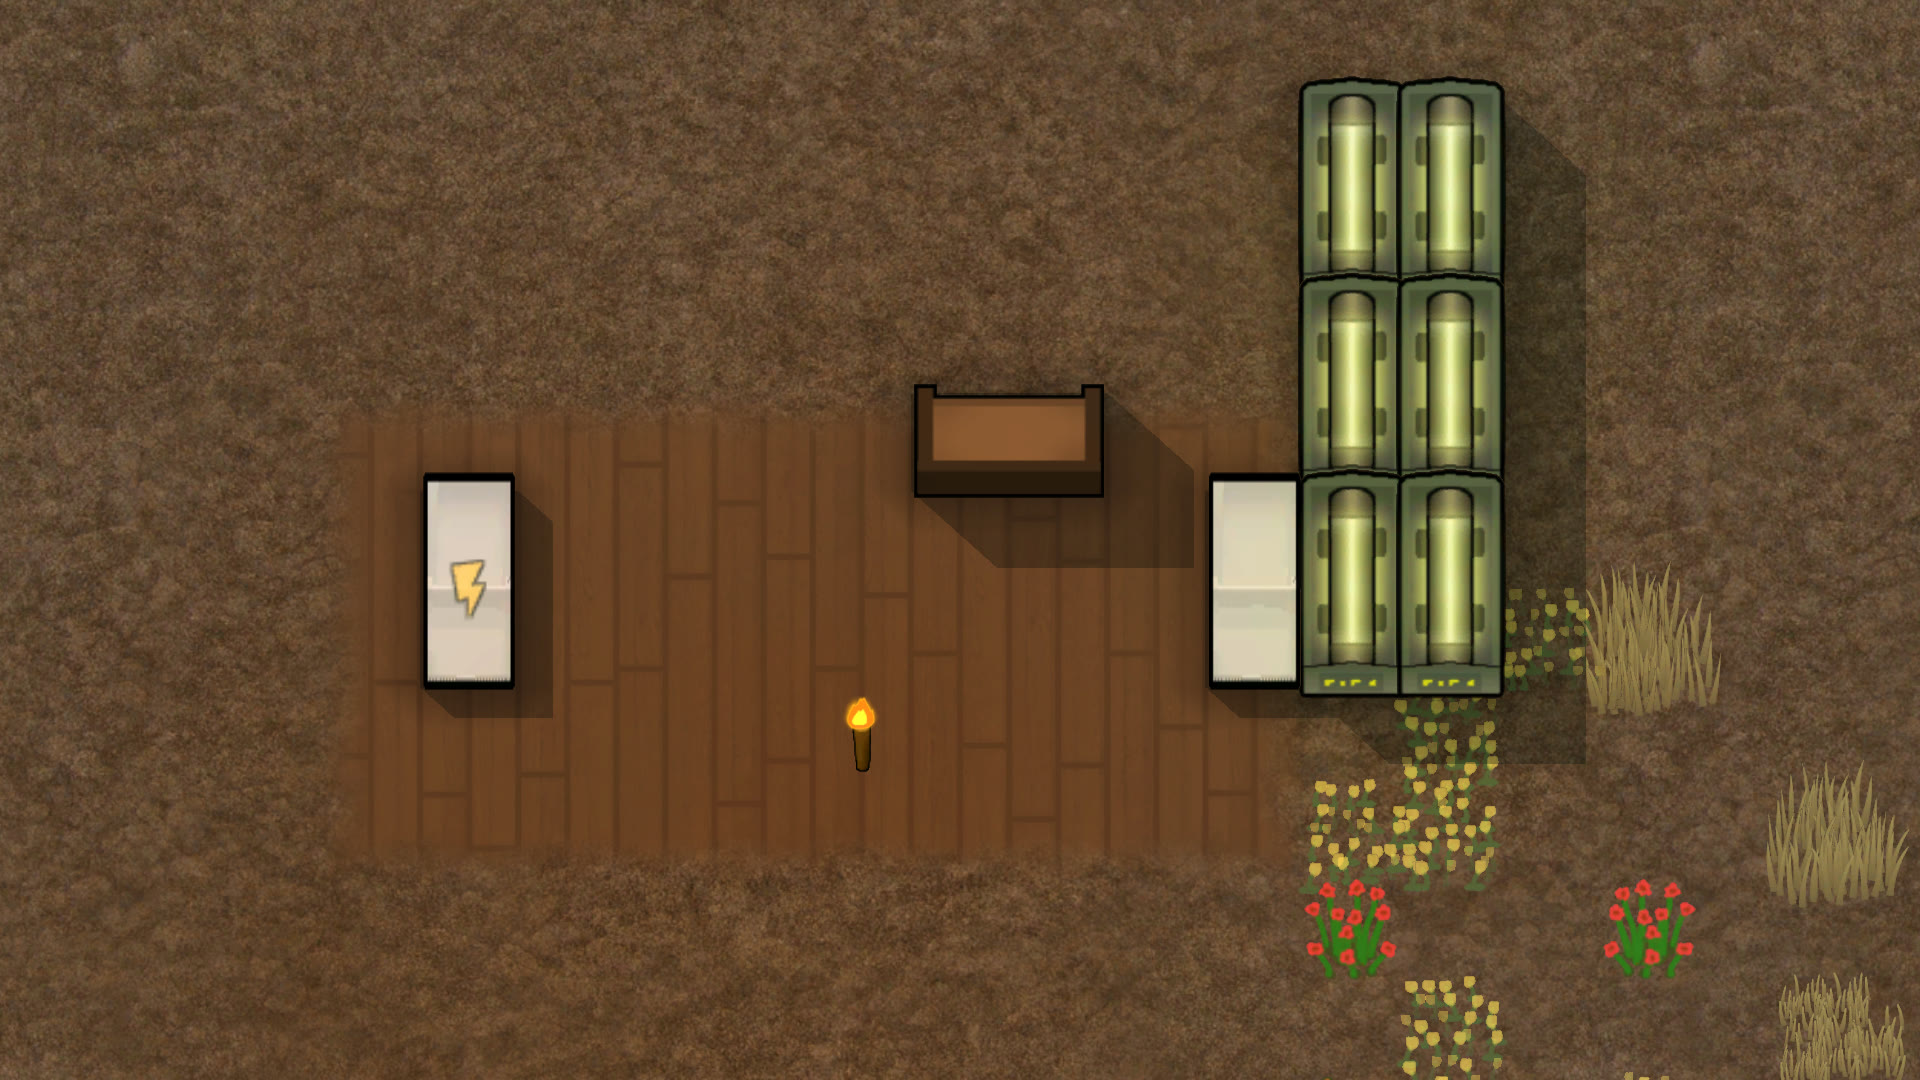
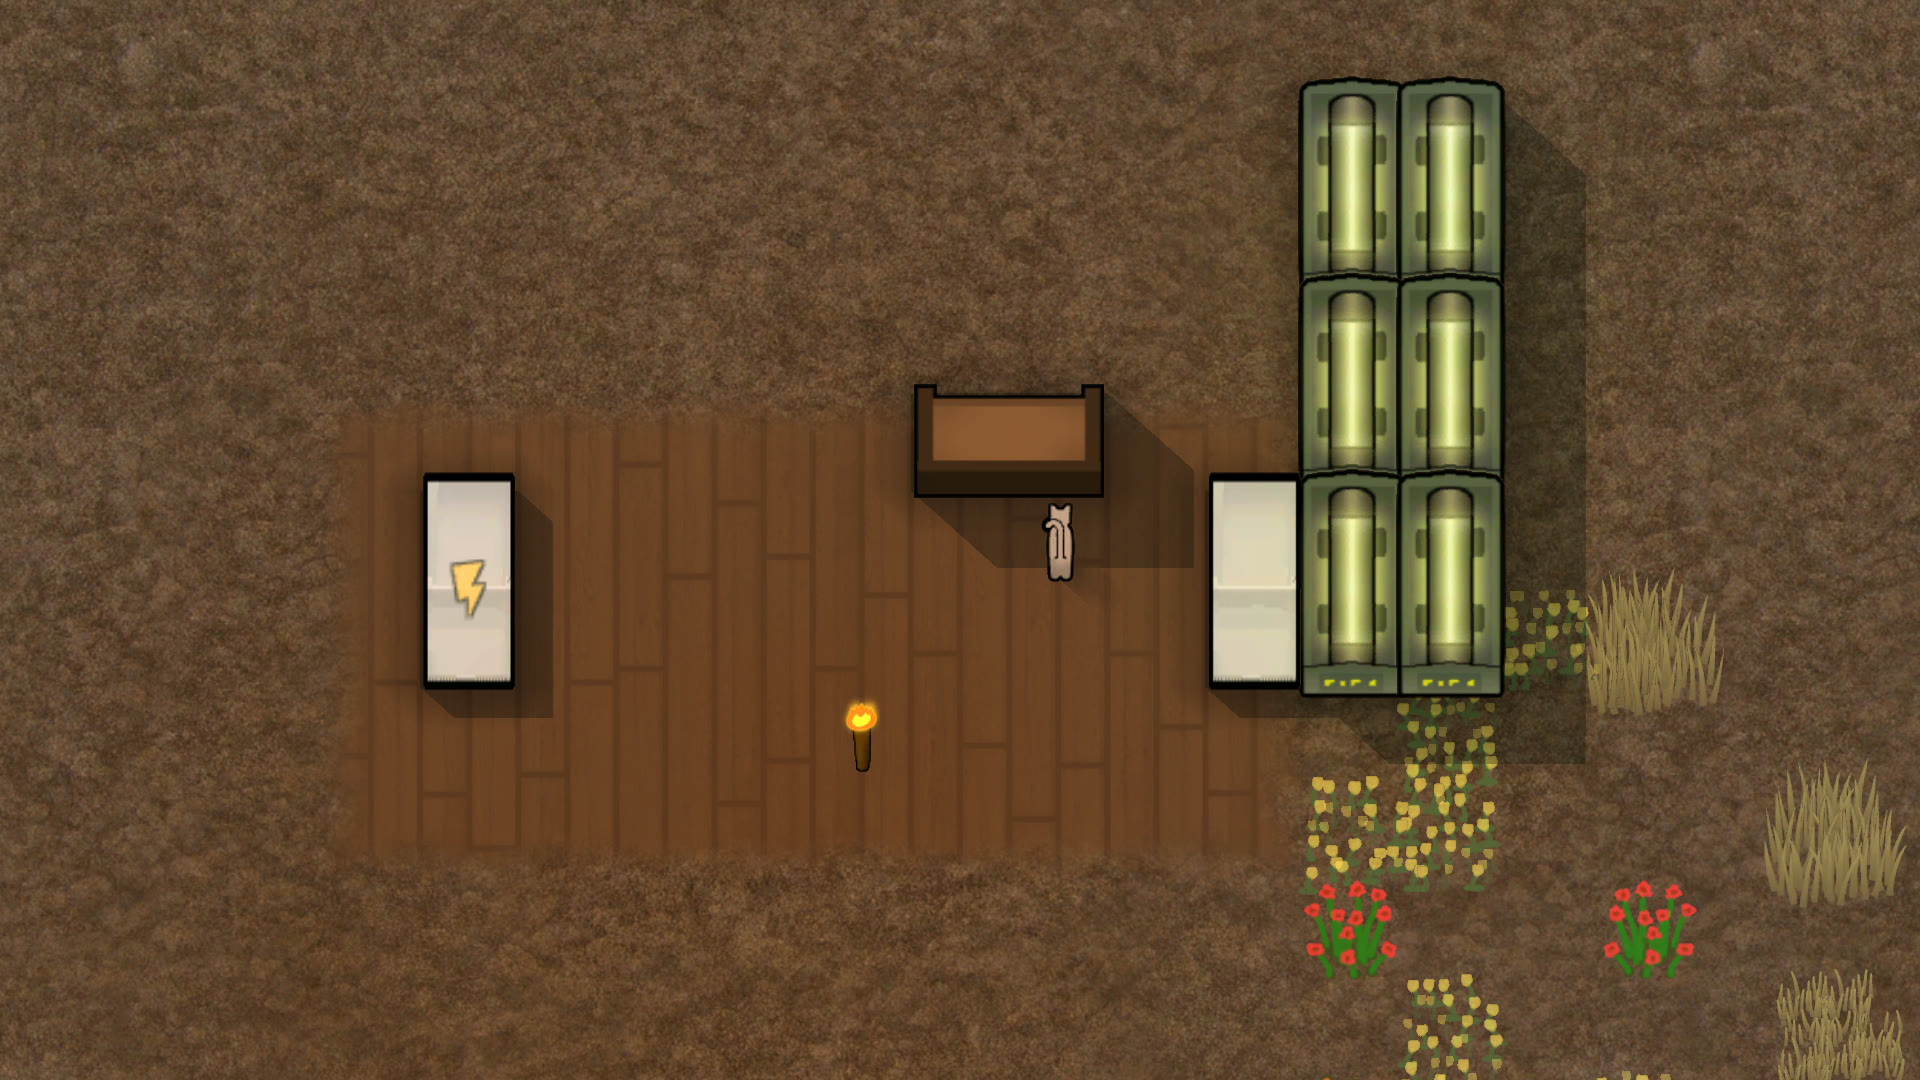
Gallery complete: image 6 is the two-propagator scene with the cat (run 7899); all six accepted; PUBLICATION, STATUS and history updated; intermediate evidence removed

diff --git a/PUBLICATION.md b/PUBLICATION.md
@@ -195,8 +195,8 @@ shows a wound or a corpse. Left unticked as for vanilla-level combat: decided by
 | `3-` | Sena with ACS_index, bookcase, torch, a squirrel | the podium (`emerald-clearing`), 12:10 | Feature 17, scenario 3 |
 | `4-` | The white rhinoceros beetle, a hen at its feet | the podium, 12:15 | Feature 18, scenario 4 |
 | `5-` | God's Power, all eight wings, a peacock walking in | the podium, 12:20 | Feature 18, scenario 5 |
-| `6-` | The dark matter propagator switched on against its power cells, a cat | the podium, 12:25 | Feature 18, scenario 6 |
+| `6-` | Two dark matter propagators: one against its six power cells (switched on, no icon), one eight cells away with no power (the lightning icon names the need), a cat between them | the podium, 12:25 | Feature 18, scenario 6 |
 
-State on 2026-10-08: the series is played and installed as **candidates** (owner's rule: a candidate image is named `<digit>-candidate-<name>.jpg`, under 2 MB each and 8 MB in all; once the owner accepts it the word `candidate` is dropped, a refused one is deleted; the six are candidates until she says so). The pass is `wsl-deps.galerie.map` (the Sanctuary Backlot's map: WDI bodies with Venus Touch Waistlines garments, facial animation, EyeGenes3; the owner chose the version with the waistlines mod). `1-` to `3-` come from run `fc2b` (eyes by gene: Rina brown, Toma crimson, Sena green; Toma drafted for the angry face, Sena's face set to `normal`, Rina's soft smile is the default one), `4-` and `5-` from run `9b6e` (the beetle and the seraph with a green peacock: the sex of a spawned peacock is drawn at random, a run can give a drab peahen), `6-` from run `ba7b` (rectangle framing, the six cells whole); JPEG, 1.8 MB in all, none over 320 KB. Kept as proof: `Tests/Pickle/Evidence/2026-10-08-gallery-faces` (1 to 3), `-gallery-backlot` (the six on the Backlot map), `2026-10-07-gallery-final4` (4, 5), `-prop2` (6). The place steps are the Backlot's (`Nelim's Sanctuary: ...`), the tools PickleTools' (`Nelim's Pickle Tools: ...`). The framing uses PickleTools' `I frame the rectangle from (x1, z1) to (x2, z2)` and the long waits its `I let N ticks pass`. Every capture is read against its line of the plan after the run; a green run validates nothing. An anomaly that comes from the scene or from a shared tool (a painted zone, stack counts, pawn names, tinted light, the lightning icon) is reported to PickleTools (via Ticket Manager if it is unreachable), never worked around here.
+State on 2026-10-08: the series is played, **all six images accepted by the owner** (her rule: a candidate is named `<digit>-candidate-<name>.jpg`, under 2 MB each and 8 MB in all; accepted, it loses the word `candidate`; refused, it is deleted). The pass is `wsl-deps.galerie.map` (the Sanctuary Backlot's map: WDI bodies with Venus Touch Waistlines garments, facial animation, EyeGenes3; the owner chose the version with the waistlines mod). `1-` to `3-` come from run `fc2b` (eyes by gene: Rina brown, Toma crimson, Sena green; Toma drafted for the angry face, Sena's face set to `normal`, Rina's soft smile is the default one), `4-` from run `9b6e` (the beetle), `5-` from run `e4ca` (the seraph, the peacock pushed clear of the wings: the sex of a spawned peacock is drawn at random, this run gave a drab peahen, the owner kept it), `6-` from run `7899` (two propagators, the lightning icon kept by PickleTools' `the building status icons are kept` since presentation mode hides it, the animals removed once before the wait and once before the cat, the six cells whole); JPEG, 1.9 MB in all, none over 320 KB. Kept as proof: `Tests/Pickle/Evidence/2026-10-08-gallery-faces` (1 to 3), `-gallery-seraph` (5), `-gallery-two-props3` (6), `2026-10-07-gallery-final4` (4), `-gallery-backlot` (the six on the Backlot map). The place steps are the Backlot's (`Nelim's Sanctuary: ...`), the tools PickleTools' (`Nelim's Pickle Tools: ...`). The framing uses PickleTools' `I frame the rectangle from (x1, z1) to (x2, z2)` and the long waits its `I let N ticks pass`. Every capture is read against its line of the plan after the run; a green run validates nothing. An anomaly that comes from the scene or from a shared tool (a painted zone, stack counts, pawn names, tinted light, the lightning icon) is reported to PickleTools (via Ticket Manager if it is unreachable), never worked around here.
 
 **Choices already made** (owner and author): a beard on Misaka was tried and dropped; the tea room of the Sanctuary was tried and dropped (its blue lamps tinted the white robe cyan); the propagator is shown powered (six vanometric cells for its 5 000 W, then the network refresh step of PickleTools); the podium's painted green zone is bared for the run.

diff --git a/STATUS.md b/STATUS.md
@@ -23,7 +23,7 @@ remaining:
   - asked of PickleTools, no reply: Chinese fonts missing in the research-window capture (every project affected); a `forcedMiss` rule for `Check-ConfigErrors.ps1`. A 4 GB core dump from a crashed run of 2026-09-28 has no known path
   - unverified: a dry-run of the next commit before the next publish (the last one, `36782547484`, was on `890c874`)
   - cleanup after the last Pickle ticket (`20261001-214408-884-02b9`): remove from the WSL install the mods this mod's sessions downloaded (Workshop cache of Animal Prosthetics 2 `3238353862`, Nocturnal Animals Continued `2269731409` and Harmony, if this mod's sessions put them there and no other mod's map needs them), under the machine lock, after listing what goes and what stays; then say here what was removed
-  - gallery: done 2026-10-07, the series "Noon at the Sanctuary" is installed in `Art/Gallery/` (runs `9b6e` and `ba7b`, with Venus Touch Waistlines, read one by one); only the `1.0.3` dispatch is left (dry-run of the exact SHA, owner approves `steam-production`), then the manual upload of the six images and the header on Steam
+  - gallery: done 2026-10-08, the six images accepted by the owner and installed in `Art/Gallery/` (runs `fc2b`, `9b6e`, `e4ca`, `7899`); only the `1.0.3` dispatch is left (dry-run of the exact SHA, owner approves `steam-production`), then the manual upload of the six images and the header on Steam
   - ideas not started: `BACKLOG.md`
 session:      local_0370d2fc-d327-4091-bf8f-6481630fa3aa
 updated:      2026-10-08, gallery migrated to the Backlot with eyes and faces (runs `209d`, `fc2b`; images 1 to 3 replaced), 2026-10-07 gallery played and installed as the series "Noon at the Sanctuary" (features 17 and 18, runs `9b6e` and `ba7b`, JPEG 1.8 MB), two French corrections from the owner's review (`fabrication au`, the beetle is born wild, `n'amasseront jamais`); `_tools/` moved to `scripts/`, `Art/Preview.png` renamed `Preview-source.png`, thanks drafts kept in PUBLICATION.md

diff --git a/docs/runs/history.md b/docs/runs/history.md
@@ -32,3 +32,4 @@ the detail, this file keeps only what still describes the published state.
 - 2026-10-05, **code review since `0.1.0`** (low effort, one diff pass on `Mod/` and its patches, tests skipped) of commit `916dc719c9c653c4862de23c92e48add12d977e9`: no finding. The French hairstyle labels now in English are the owner-validated review, not a defect.
 - 2026-10-07, **gallery series "Noon at the Sanctuary" played and installed**: features 17 and 18, run `9b6e` (pass `wsl-deps.galerie-tmw.map`, with Venus Touch Waistlines, six scenarios green, every capture read) and `ba7b` (propagator, rectangle framing); evidence kept in `Tests/Pickle/Evidence/2026-10-07-gallery-final4`, `-prop2`, `-tmw-1`, `-v2`, `-v2-seraph`, `-new`. Intermediate failures, none of them from the mod: `wait N ticks` timed out at 5 s (fixed by PickleTools `I let N ticks pass`), a staging error on the renamed waistlines mod, an intermittent startup crash (`663c`, signal 11, passed on the identical resubmission).
 - 2026-10-08, **gallery migrated to the Sanctuary Backlot and faces added**: pass `wsl-deps.galerie.map` (Backlot map), run `209d` (six green, migration check), run `fc2b` (feature 17: eyes by gene, Toma drafted, Sena `normal`; read one by one, installed as images 1 to 3). Evidence kept: `2026-10-08-gallery-faces`, `2026-10-08-gallery-backlot`, `2026-10-07-gallery-final4`, `2026-10-07-gallery-prop2`; the comparison runs with and without the waistlines mod are removed (the owner chose with).
+- 2026-10-08, **gallery complete**, the six images accepted by the owner: `1-` to `3-` run `fc2b`, `4-` run `9b6e`, `5-` run `e4ca` (peacock pushed), `6-` run `7899` (two propagators, powered and unpowered, with the status icons kept). Evidence kept: `2026-10-08-gallery-faces`, `-seraph`, `-two-props3`, `-backlot`, `2026-10-07-gallery-final4`; the intermediate captures are removed.
